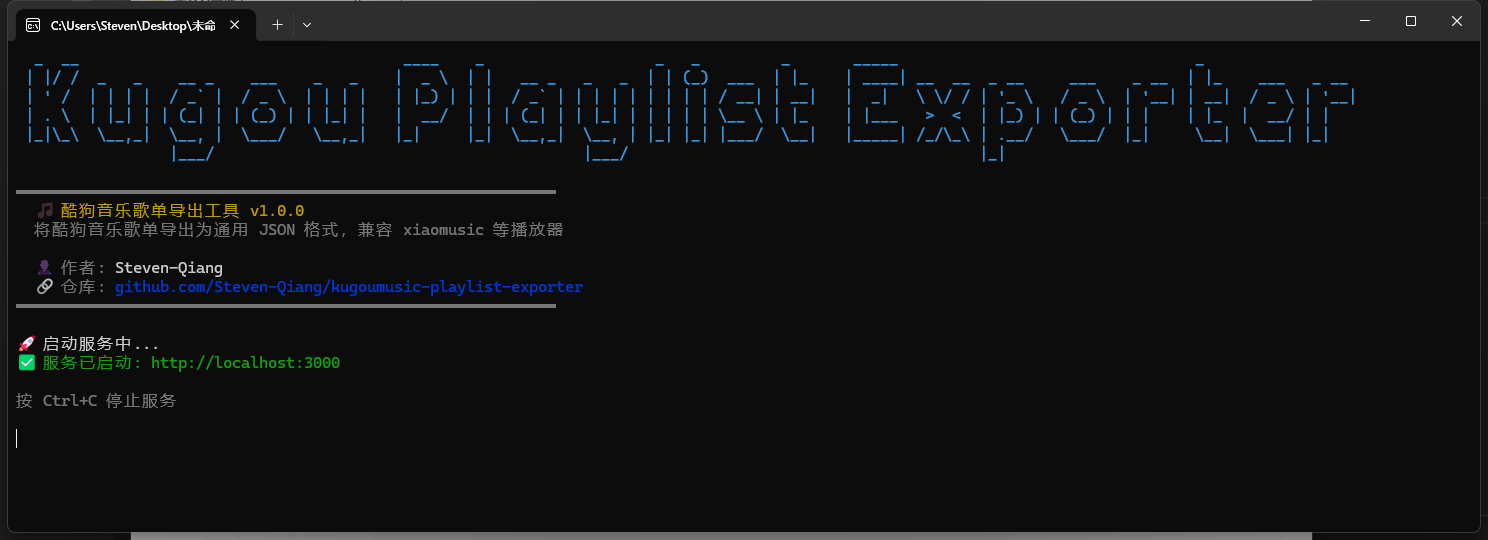
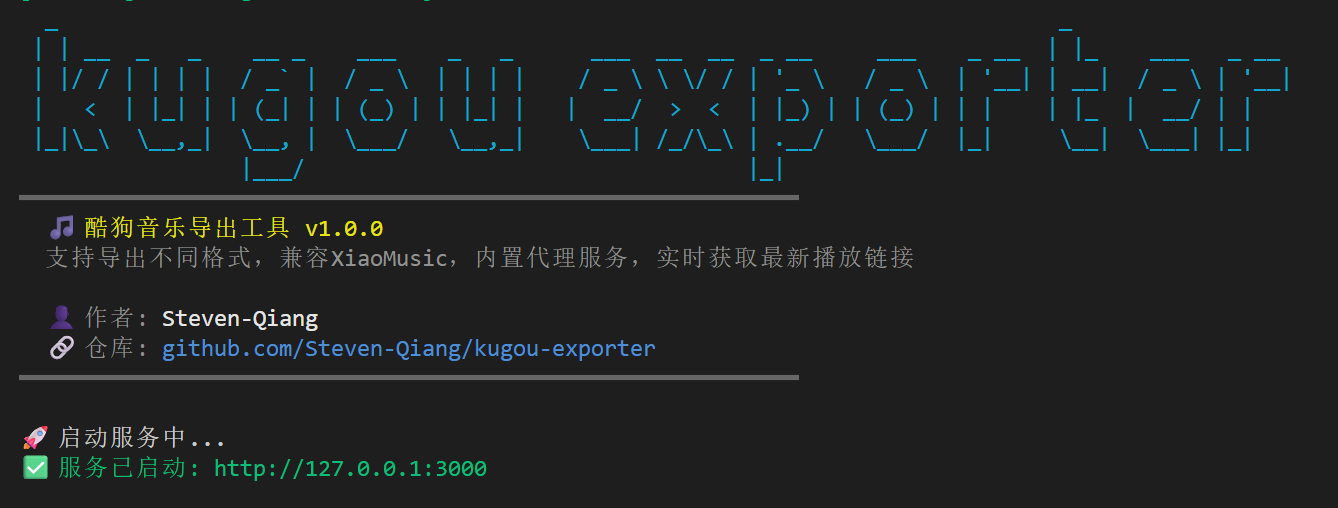
feat: 新增docker支持

diff --git a/apps/launcher/index.js b/apps/launcher/index.js
@@ -11,15 +11,15 @@ process.removeAllListeners('warning');
 function showBanner() {
   console.log(
     chalk.cyan(
-      '  _  __                                    ____    _                   _   _         _       _____                                 _                 \n | |/ /  _   _    __ _    ___    _   _    |  _ \\  | |   __ _   _   _  | | (_)  ___  | |_    | ____| __  __  _ __     ___    _ __  | |_    ___   _ __ \n | \' /  | | | |  / _` |  / _ \\  | | | |   | |_) | | |  / _` | | | | | | | | | / __| | __|   |  _|   \\ \\/ / | \'_ \\   / _ \\  | \'__| | __|  / _ \\ | \'__|\n | . \\  | |_| | | (_| | | (_) | | |_| |   |  __/  | | | (_| | | |_| | | | | | \\__ \\ | |_    | |___   >  <  | |_) | | (_) | | |    | |_  |  __/ | |   \n |_|\\_\\  \\__,_|  \\__, |  \\___/   \\__,_|   |_|     |_|  \\__,_|  \\__, | |_| |_| |___/  \\__|   |_____| /_/\\_\\ | .__/   \\___/  |_|     \\__|  \\___| |_|   \n                 |___/                                         |___/                                       |_|                                       \n'
+      '  _                                                                             _                 \n | | __  _   _    __ _    ___    _   _      ___  __  __  _ __     ___    _ __  | |_    ___   _ __ \n | |/ / | | | |  / _` |  / _ \\  | | | |    / _ \\ \\ \\/ / | \'_ \\   / _ \\  | \'__| | __|  / _ \\ | \'__|\n |   <  | |_| | | (_| | | (_) | | |_| |   |  __/  >  <  | |_) | | (_) | | |    | |_  |  __/ | |   \n |_|\\_\\  \\__,_|  \\__, |  \\___/   \\__,_|    \\___| /_/\\_\\ | .__/   \\___/  |_|     \\__|  \\___| |_|   \n                 |___/                                  |_|                                       '
     )
   );
   console.log(chalk.gray('━'.repeat(60)));
-  console.log(chalk.yellow(`  🎵 酷狗音乐歌单导出工具 v${version}`));
-  console.log(chalk.gray('  将酷狗音乐歌单导出为通用 JSON 格式，兼容 xiaomusic 等播放器'));
+  console.log(chalk.yellow(`  🎵 酷狗音乐导出工具 v${version}`));
+  console.log(chalk.gray('  支持导出不同格式，兼容XiaoMusic，内置代理服务，实时获取最新播放链接'));
   console.log();
   console.log(chalk.gray('  👤 作者: ') + chalk.white('Steven-Qiang'));
-  console.log(chalk.gray('  🔗 仓库: ') + chalk.blue('github.com/Steven-Qiang/kugoumusic-playlist-exporter'));
+  console.log(chalk.gray('  🔗 仓库: ') + chalk.blue('github.com/Steven-Qiang/kugou-exporter'));
   console.log(chalk.gray('━'.repeat(60)));
   console.log();
 }

diff --git a/scripts/build.js b/scripts/build.js
@@ -10,6 +10,10 @@ const platforms = [
   { platform: 'linux', arch: 'x64', ext: '', name: 'linux' },
 ];
 
+const targetPlatforms = process.argv.includes('--linux-only')
+  ? platforms.filter((p) => p.platform === 'linux')
+  : platforms;
+
 const launcherPath = join(__dirname, '../apps/launcher');
 const distPath = join(__dirname, '../dist');
 
@@ -23,8 +27,8 @@ const distPath = join(__dirname, '../dist');
   console.log('🔨 Building with ncc...');
   execSync('ncc build', { cwd: launcherPath, stdio: 'inherit' });
 
-  for (const target of platforms) {
-    const outputName = `kugoumusic-playlist-exporter-${target.name}-v${version}${target.ext}`;
+  for (const target of targetPlatforms) {
+    const outputName = `kugou-exporter-${target.name}-v${version}${target.ext}`;
     const outputPath = join(distPath, outputName);
 
     console.log(`\n🔨 Building for ${target.platform}-${target.arch}...`);

diff --git a/apps/web/src/views/PlaylistView.vue b/apps/web/src/views/PlaylistView.vue
@@ -5,8 +5,8 @@
         <div class="header-content">
           <div class="header-left">
             <h2>我的歌单</h2>
-            <a href="https://github.com/Steven-Qiang/kugoumusic-playlist-exporter" target="_blank" class="github-link">
-              Steven-Qiang/kugoumusic-playlist-exporter@{{ version }}
+            <a href="https://github.com/Steven-Qiang/kugou-exporter" target="_blank" class="github-link">
+              Steven-Qiang/kugou-exporter@{{ version }}
             </a>
           </div>
           <div v-if="userInfo" class="user-info">

diff --git a/apps/web/src/components.d.ts b/apps/web/src/components.d.ts
@@ -35,7 +35,6 @@ declare module 'vue' {
     QualitySelect: typeof import('./components/QualitySelect.vue')['default']
     RouterLink: typeof import('vue-router')['RouterLink']
     RouterView: typeof import('vue-router')['RouterView']
-    SettingsDialog: typeof import('./components/SettingsDialog.vue')['default']
     SongUrlDialog: typeof import('./components/SongUrlDialog.vue')['default']
   }
   export interface GlobalDirectives {

diff --git a/apps/web/src/views/LoginView.vue b/apps/web/src/views/LoginView.vue
@@ -58,7 +58,7 @@
         </div>
 
         <div class="login-footer">
-          <a href="https://github.com/Steven-Qiang/kugoumusic-playlist-exporter" target="_blank">GitHub</a>
+          <a href="https://github.com/Steven-Qiang/kugou-exporter" target="_blank">GitHub</a>
           <span>@ Steven Qiang</span>
         </div>
       </div>

diff --git a/apps/launcher/config.js b/apps/launcher/config.js
@@ -2,7 +2,7 @@ const fs = require('fs');
 const path = require('path');
 const yaml = require('js-yaml');
 
-const configPath = path.join(process.cwd(), 'config.yaml');
+const configPath = process.env.CONFIG_PATH || path.join(process.cwd(), 'config.yaml');
 
 /**
  * @typedef {object} Config

diff --git a/README.md b/README.md
@@ -1,10 +1,10 @@
 # 酷狗音乐歌单导出工具
 
-[![GitHub stars](https://img.shields.io/github/stars/Steven-Qiang/kugoumusic-playlist-exporter?style=flat-square)](https://github.com/Steven-Qiang/kugoumusic-playlist-exporter/stargazers)
-[![GitHub license](https://img.shields.io/github/license/Steven-Qiang/kugoumusic-playlist-exporter?style=flat-square)](https://github.com/Steven-Qiang/kugoumusic-playlist-exporter/blob/main/LICENSE)
-[![GitHub issues](https://img.shields.io/github/issues/Steven-Qiang/kugoumusic-playlist-exporter?style=flat-square)](https://github.com/Steven-Qiang/kugoumusic-playlist-exporter/issues)
+[![GitHub stars](https://img.shields.io/github/stars/Steven-Qiang/kugou-exporter?style=flat-square)](https://github.com/Steven-Qiang/kugou-exporter/stargazers)
+[![GitHub license](https://img.shields.io/github/license/Steven-Qiang/kugou-exporter?style=flat-square)](https://github.com/Steven-Qiang/kugou-exporter/blob/main/LICENSE)
+[![GitHub issues](https://img.shields.io/github/issues/Steven-Qiang/kugou-exporter?style=flat-square)](https://github.com/Steven-Qiang/kugou-exporter/issues)
 
-kugoumusic-playlist-exporter
+kugou-exporter
 
 将酷狗音乐歌单导出为通用JSON格式，兼容 xiaomusic（小爱音箱）等播放器
 
@@ -61,18 +61,59 @@ kugoumusic-playlist-exporter
 
 ### 下载安装
 
-从 [Releases](https://github.com/Steven-Qiang/kugoumusic-playlist-exporter/releases) 页面下载对应平台的可执行文件。
+从 [Releases](https://github.com/Steven-Qiang/kugou-exporter/releases) 页面下载对应平台的可执行文件。
 
 ### 运行程序
 
 双击运行下载的可执行文件即可。
 
-![CLI启动界面](images/cli.png)
+![启动界面](images/cli.png)
 
-服务地址：
+服务地址：http://127.0.0.1:3000
 
-- 🌐 API 服务: http://127.0.0.1:3000
-- 🎨 Web 界面: http://127.0.0.1:5173
+### Docker 部署
+
+#### 使用 Docker Hub 镜像（推荐）
+
+```bash
+# 拉取最新镜像
+docker pull stevenxuq/kugou-exporter:latest
+
+# 运行容器
+docker run -d -p 3000:3000 -v ./data:/app/data --name kugou-exporter --restart unless-stopped stevenxuq/kugou-exporter:latest
+```
+
+或使用 Docker Compose：
+
+```yaml
+version: '3.8'
+services:
+  kugou-exporter:
+    image: stevenxuq/kugou-exporter:latest
+    container_name: kugou-exporter
+    ports:
+      - '3000:3000'
+    volumes:
+      - ./data:/app/data
+    restart: unless-stopped
+```
+
+#### 本地构建镜像
+
+```bash
+# 构建镜像
+docker build -t kugou-exporter .
+
+# 运行容器
+docker run -d -p 3000:3000 -v ./data:/app/data --name kugou-exporter kugou-exporter
+```
+
+服务地址：http://localhost:3000
+
+**注意：**
+
+- 配置文件保存在 `./data/config.yaml`
+- 导出时服务器地址填写：`http://你的主机IP:3000`
 
 ---
 
@@ -128,7 +169,7 @@ kugoumusic-playlist-exporter
 
 ## 开发指南
 
-> 仅适用于开发者，普通用户请直接下载 [Release](https://github.com/Steven-Qiang/kugoumusic-playlist-exporter/releases)
+> 仅适用于开发者，普通用户请直接下载 [Release](https://github.com/Steven-Qiang/kugou-exporter/releases)
 
 ### 环境要求
 

diff --git a/CHANGELOG.md b/CHANGELOG.md
@@ -3,4 +3,4 @@
 
 ### Bug Fixes
 
-* release script ([5504a3e](https://github.com/Steven-Qiang/kugoumusic-playlist-exporter/commit/5504a3e3090c3b885963f9ab9079540bfd4105b3))
+* release script ([5504a3e](https://github.com/Steven-Qiang/kugou-exporter/commit/5504a3e3090c3b885963f9ab9079540bfd4105b3))
